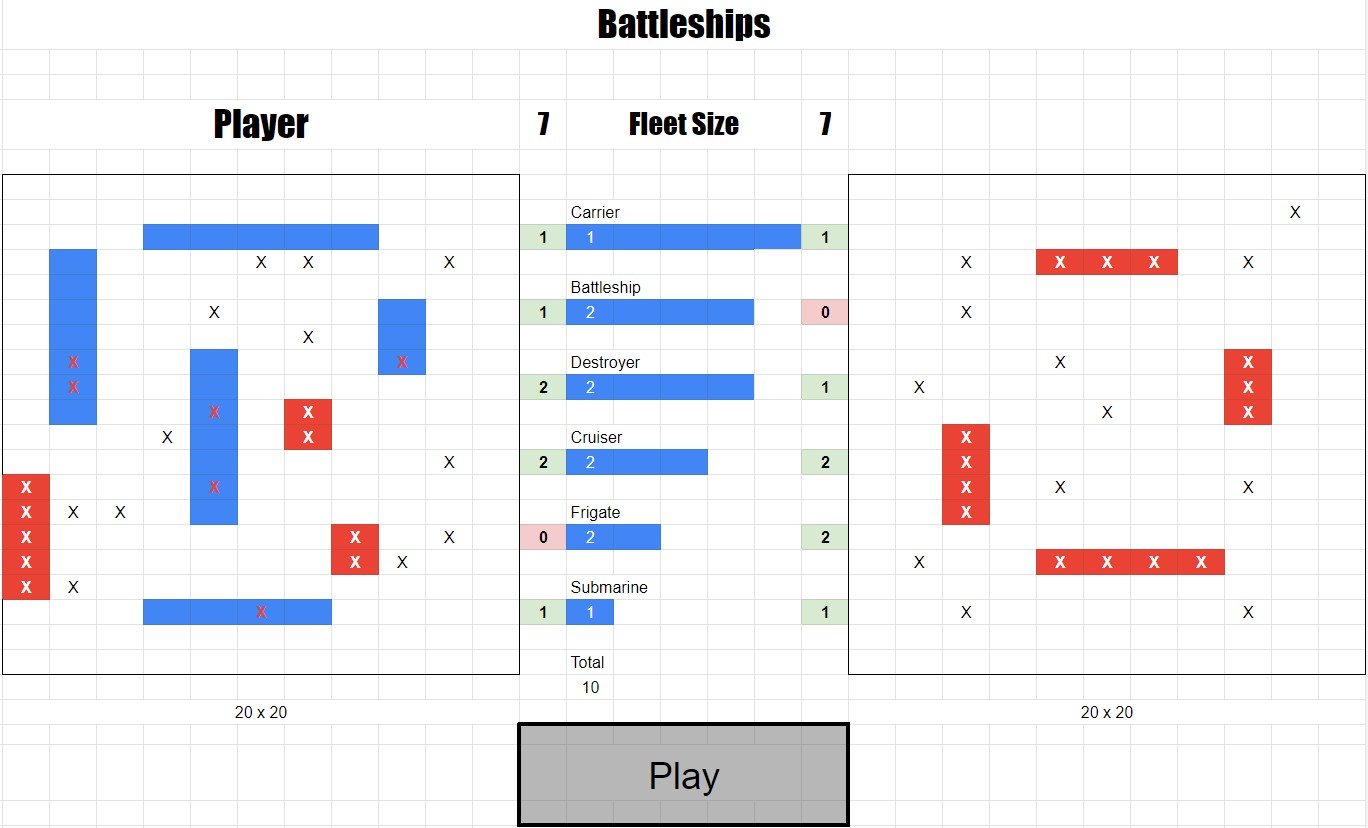
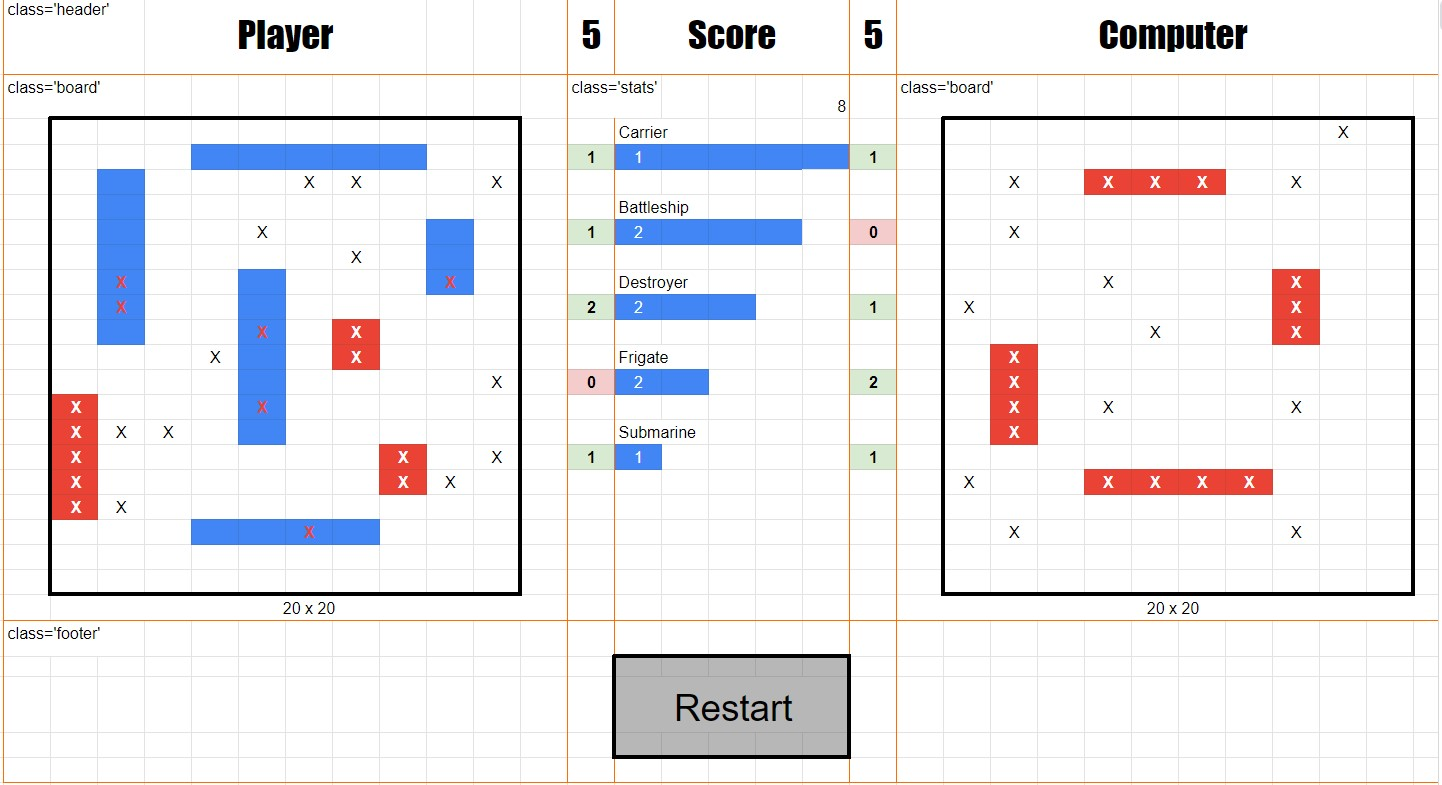
v0.4

diff --git a/src/index.js b/src/index.js
@@ -408,15 +408,3 @@ function showTitleStatus(player, status) {
 function delay(ms) {
   return new Promise(resolve => setTimeout(resolve, ms));
 }
-
-// ----------- Handlers (WIP) ------------- //
-
-// Handler for ship selection from stats panel (create new ships)
-function handleCreateShip(el, type) {
-  console.log('handleCreateShip(...)', type);
-}
-
-// Handler for ship selection from human player board (move existing ships)
-function handleMoveShip(id) {
-  console.log('handleMoveShip(...)', id);
-}

diff --git a/README.md b/README.md
@@ -29,19 +29,27 @@
   - Hit
   - Miss
   - Ship sunk
-- 'Play' button changes to 'Restart' during gameplay
 - Confirm to quit when player presses 'Restart'
  
 ### End game
-- Player/computer who sank all the opponents ships wins
+- Player/computer who sinks all the opponents ships wins
+- 'Restart' button appears when game ends
 - Press 'Restart' to play again
 
+![flowchart](flowchart.jpg)
+
 # Highlights
+- Javascript is a joy to work with!
+- Powerful DOM handling features
+- Wide variety of CSS styling options
+- Fast and stable V8 Javascript engine
 
 # Challenges
+- Scoping the project within limited time, e.g. reducing number of tiles to simplify testing
+- Javascript can be too forgiving! e.g. mixing strings and numbers when concatenating strings
+- Still getting used to CSS `display: grid, block, flex`
 
 # Lessons Learnt
-
 ## Use class to set element style
 
 Setting the style on the element:
@@ -57,20 +65,49 @@ element.classList.remove('hit');
   background-color: red;
 }
 ```
+## Concatenating strings and numbers with the `+` operator
+When using the `+` operator to join strings and numbers, JS automagically converts the numbers into a string before joining them together. However, when you need to do a mathematical operation in the same line, you might get some strange results.
+```js
+let char = 'A'
+let num = '1'
+let res1 = char + num               // = A1
+let res2 = char + num + 1           // = A2 or A11 ???
+let res3 = char + Number(num) + 1   // = A2
+let res4 = char + num + '1'         // = A11
+```
+Cast strings and numbers explicitly to guarantee expected results.
+
+## Data Abstraction
+Traditionally, each tile in the game is addressable as `{letter}{number}`, e.g. `B4` for ease of reference by user. Naturally, I decided to ID each tiles on the player's board using the same notation, so I can easily select elements on the DOM using its ID. 
+
+However, by using alphabets to represent the x-axis, it I had to keep switching to it's numerical format when I had to calculate new positons. This meant a lot of conversion code to support this.
+
+In hindsight, I should have used numerical coordinates to represent (x, y) and mapped it to its ID when selecting DOM elements.
+
+TBD!
+
 # Future
+## Show actual ships on board
+- Show graphics to represent type of ship
 
 ## Customisable ship positions
-- Player shall place ship pieces on player board
-- Click on ship type to select the ship to be placed
-- Highlight selected ship type text during placement
-- Mouseover to user's board to highlight valid tiles that can be placed on the board
-- Press 'R' to rotate pieces - compute suitable tiles to place ships
+- Start with random ship placement
+- Click on any ship on board to move it
+- When selected, show an outline of the ship move with pointer
+- Press 'R' to rotate ship 
+- Check for overlapping and out of bounds placement
 - Click on tile to place ship
-- Remove highlight to de-select ship
-- Incremement counter next to ship type
-- Repeat until all ships are placed
-- Click on any ship placed on board to move them
 
+## AI for Computer Player
+- Randomly pick any tile to fire on
+- If miss, keep searching randomly
+- If hit, focus fire on adjacent cells
+- If 2 consecutive tiles are hit, focus to single row/column
+- Keep firing until all ship tiles are hit
+
+## Online Play
+- 1-on-1 over LAN
+- Over internet
 
 # Code snippets
 ## Styling selected radio buttons 
